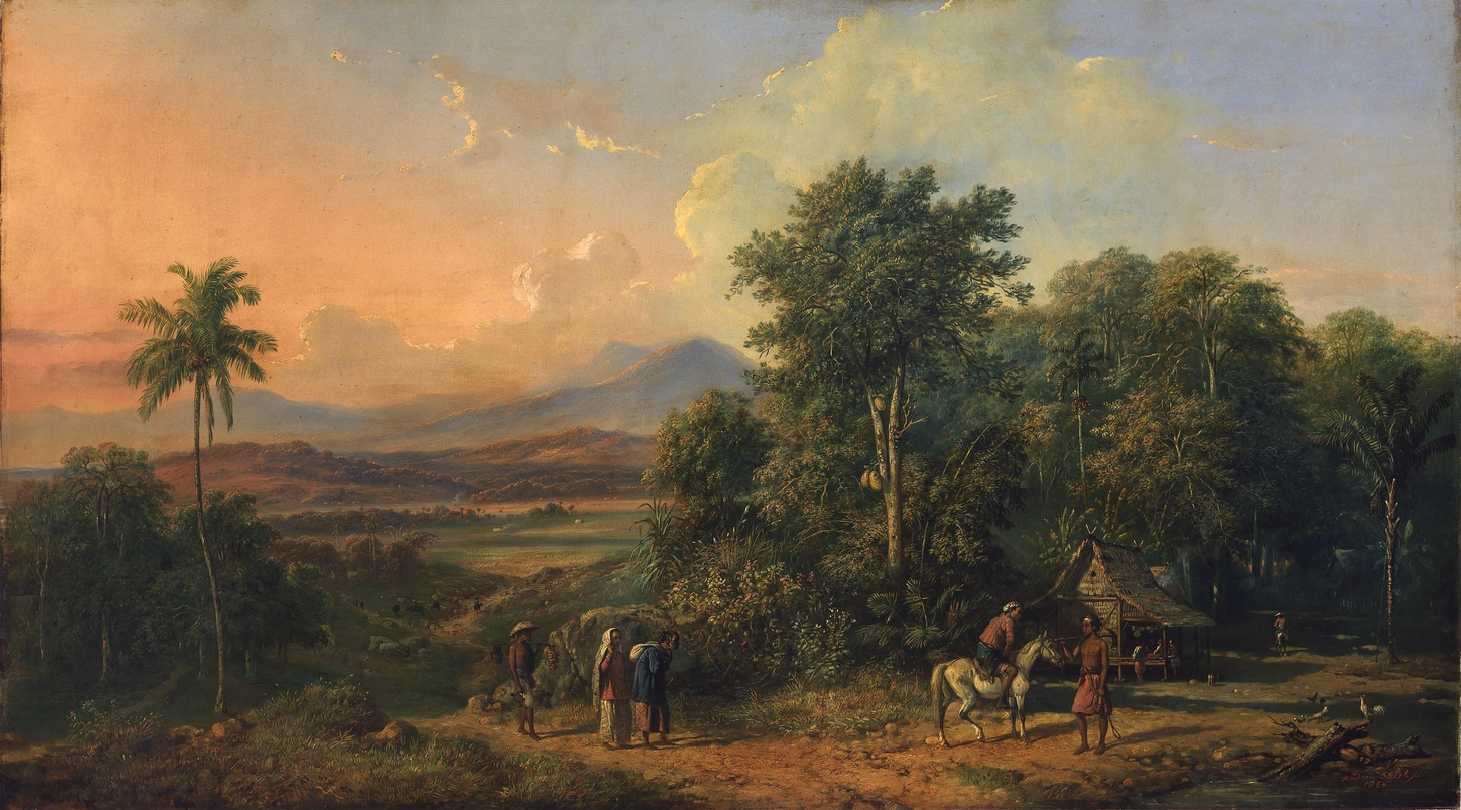
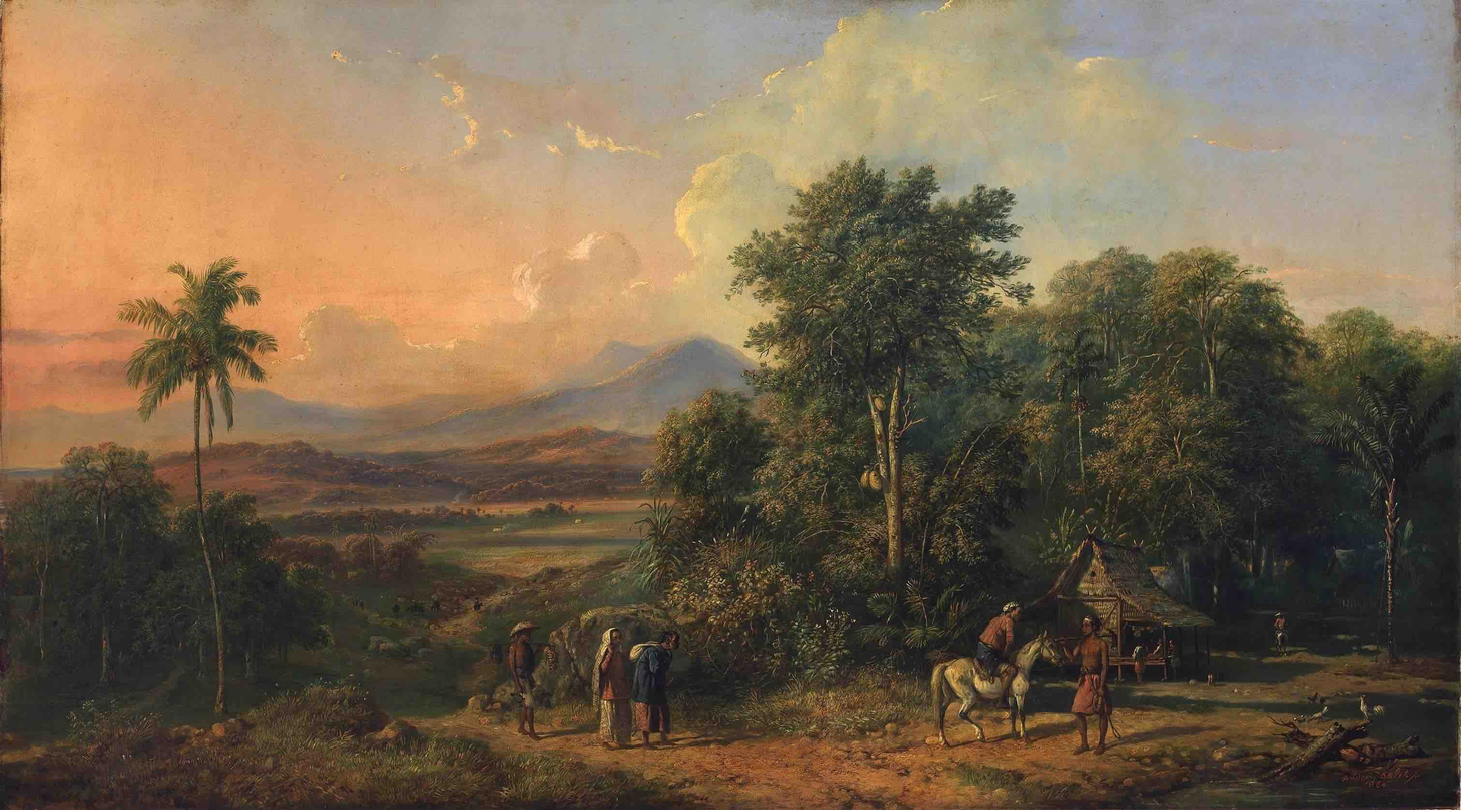
optimized image sizes

diff --git a/src/TransferStageTransitions.ts b/src/TransferStageTransitions.ts
@@ -9,62 +9,67 @@ if (process.env.NODE_ENV != 'test') {
 	backgroundImages = context.keys().map(filename => context(filename).default);
 }
 
-backgroundImages.forEach(src => fetch(src));
+backgroundImages.forEach(src => {
+	const el = document.createElement('img');
+	el.setAttribute('src', src);
+});
 
 rootStore.addListener((state, action) => {
 	if (action[0] != 'SET_TRANSFER_STAGE') return;
 	console.log(els.appContainer);
-	backgroundImages.push(backgroundImages.shift());
+	backgroundImages.unshift(backgroundImages.pop());
 	setTimeout(() => {
 		Transitions.anime.set(els.appContainer, {
-			backgroundImage: backgroundImages.map(img => `url(${img})`).join(',')
+			backgroundImage: backgroundImages
+				.slice(0, 2)
+				.map(img => `url(${img})`)
+				.join(','),
+			backgroundColor: 'black'
 		});
-	}, 400);
+	}, 500);
 });
 
-const defaultTransition: Transition = {
-	duration: 1000,
-	async beforeEnter() {
+class TransitionHandler {
+	static duration: 1000;
+	static async beforeEnter() {
 		console.log('beforeEnter', arguments);
-	},
-	async enter(el, done) {
+	}
+	static async enter(el, done) {
 		done();
 		console.log('enter', arguments);
-	},
-	async afterEnter() {
+	}
+	static async afterEnter() {
 		console.log('afterenter', arguments);
-	},
-	async enterCancelled() {
+	}
+	static async enterCancelled() {
 		console.log('after cancel', arguments);
-	},
-	async beforeLeave() {
+	}
+	static async beforeLeave() {
 		console.log('before leave', arguments);
-	},
-	async leave(el, done) {
+	}
+	static async leave(el, done) {
 		done();
 		console.log('leave', arguments);
-	},
-	async afterLeave() {
+	}
+	static async afterLeave() {
 		console.log('after leave', arguments);
-	},
-	async leaveCancelled() {
+	}
+	static async leaveCancelled() {
 		console.log('leave cancelled', arguments);
 	}
-};
-
+}
 export const TransferStageTransitions: {
-	readonly [Stage in TransferStage]: Transition;
+	readonly [Stage in TransferStage]: TransitionHandler;
 } = {
-	HOME_STAGE: {
-		...defaultTransition,
-		async enter(el, done) {
-			const prev = rootStore.currentState.prevTransferStage;
+	HOME_STAGE: class extends TransitionHandler {
+		static async beforeEnter() {}
+		static async enter(el, done) {
 			await Transitions.FLIP(
 				els.rootLogo as HTMLElement,
 				els.homeLogo as HTMLElement
 			);
-		},
-		async leave(el, done) {
+		}
+		static async leave(el, done) {
 			const transitions = [];
 			if (rootStore.currentState.transferStage == 'TOKEN_SELECT_STAGE') {
 				transitions.push(
@@ -91,35 +96,16 @@ export const TransferStageTransitions: {
 			done();
 		}
 	},
-	TOKEN_SELECT_STAGE: {
-		...defaultTransition,
-		async enter(el, done) {
+	TOKEN_SELECT_STAGE: class extends TransitionHandler {
+		static async enter(el, done) {
 			done();
 			console.log('entering!!!');
 		}
 	},
-	DEPOSIT_STAGE: {
-		...defaultTransition
-	},
-	PROCESSING_SABLIER_STAGE: {
-		...defaultTransition
-	},
-	SABLIER_SUCCESS_STAGE: {
-		...defaultTransition
-	}
+	DEPOSIT_STAGE: TransitionHandler,
+	PROCESSING_SABLIER_STAGE: TransitionHandler,
+	SABLIER_SUCCESS_STAGE: TransitionHandler
 } as const;
-
-interface Transition {
-	duration: number;
-	beforeEnter(): Promise<void>;
-	enter(el: HTMLElement, done: () => void): Promise<void>;
-	afterEnter(): Promise<void>;
-	enterCancelled(): Promise<void>;
-	beforeLeave(): Promise<void>;
-	leave(el: HTMLElement, done: () => void): Promise<void>;
-	afterLeave(): Promise<void>;
-	leaveCancelled(): Promise<void>;
-}
 
 const els = {
 	get appContainer() {

diff --git a/src/app.scss b/src/app.scss
@@ -132,7 +132,7 @@ img:not([src]) {
 
 // App
 .app-container {
-	transition: background-image 450ms ease;
+	transition: background-image 1000ms ease-in-out;
 	opacity: 0;
 	animation-delay: 400ms;
 	animation: fadeIn 650ms ease-in-out forwards;
@@ -140,7 +140,7 @@ img:not([src]) {
 	background-size: cover;
 	background-position: center center;
 	background-repeat: no-repeat;
-	background-image: url('assets/backgrounds/1-background.png');
+	background-image: url('assets/backgrounds/1-background.jpg');
 	width: 100%;
 	height: 90vh;
 	margin: 5vh 0px;

diff --git a/src/index.html b/src/index.html
@@ -19,7 +19,11 @@
 	</head>
 	<body>
 		<main id="app">
-			<div class="app-container">
+			<div
+				style="visibility:hidden;"
+				:style="{ visibility: 'visible' }"
+				class="app-container"
+			>
 				<div class="app-container--overlay">
 					<!-- :style="{ opacity: state.transferStage == 'HOME_STAGE' ? 0 : 1 }" -->
 					<div @click="onHeaderLogoClick" role="root--logo-container">

diff --git a/src/main.ts b/src/main.ts
@@ -84,7 +84,7 @@ export const $vm = new Vue({
 					);
 					if (receipt && receipt.status) {
 						this.throwawayWalletSablierTxHash = event.transactionHash;
-						rootStore.dispatch(['SET_TRANSFER_STAGE', 'SABLIER_SUCCESS_STAGE']);
+						// rootStore.dispatch(['SET_TRANSFER_STAGE', 'SABLIER_SUCCESS_STAGE']);
 					}
 				});
 		});
